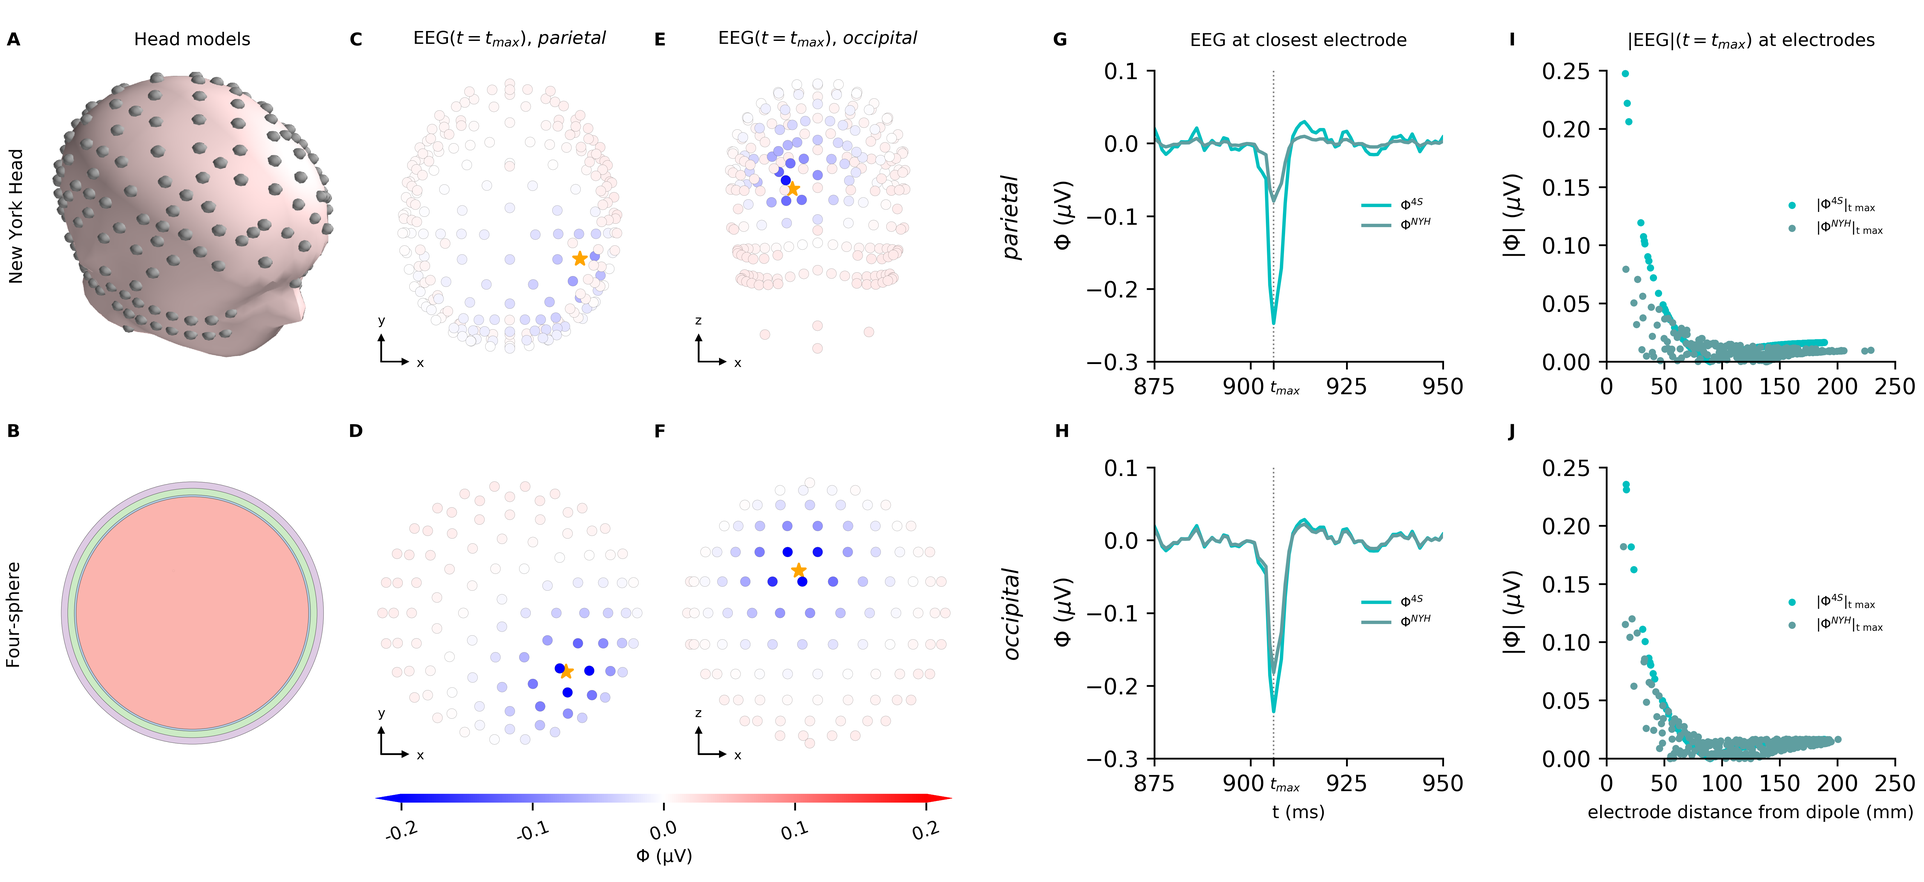
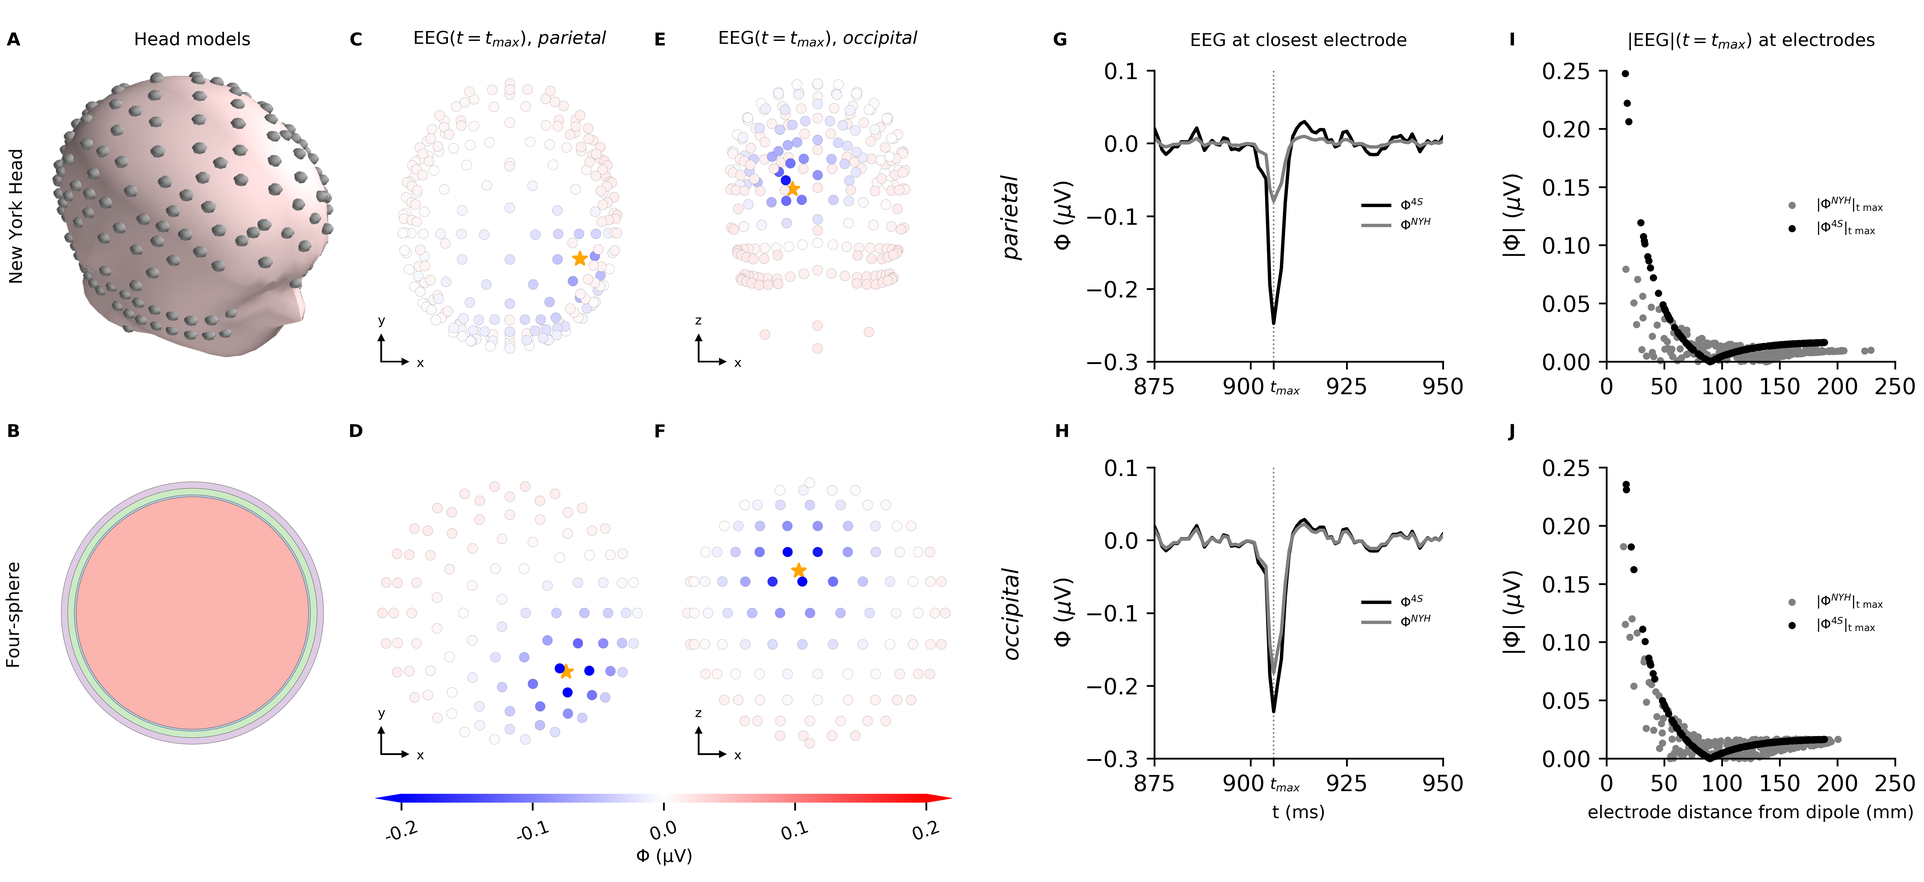
acceptions, fixes and comments to 3.2-3.5

diff --git a/doc/eeg_main.tex b/doc/eeg_main.tex
@@ -497,50 +497,44 @@ This demonstrates that the relative error of the single-dipole approximation is 
 
 \subsection{Compact description of EEG contribution simplifies analysis}\label{subsec:compact}
 %In the previous section we showed that the single-dipole approximation was applicable for calculation of EEG signals from a single synaptic input to a human cortical Layer 2/3 cell model, and we now expand this to three different cell types (Fig.~\ref{fig:eeg_compare_cell_types}\textbf{A}), each receiving a large number of synaptic inputs arriving in waves with specific target regions on the cells (Fig.~\ref{fig:eeg_compare_cell_types}\textbf{B}).
-In the previous section we showed that the single-dipole approximation was applicable for calculation of EEG signals, and in this section we demonstrate that the single-dipole approximation can substantially simplify the analysis of the biophysical origin of EEG signals.
+In the previous section, we showed that the single-dipole approximation was applicable for calculation of EEG signals, and in this section we demonstrate that the single-dipole approximation can substantially simplify the analysis of the biophysical origin of EEG signals.
 
 \subsubsection{Single-dipole approximation simplifies estimate of EEG contribution}
 
 Pyramidal cells have a preferred orientation along the depth axis of cortex (here the $z$-axis), and the direction of the current dipole moment $\mathbf{p}$ can be expected to align with this axis since
-radial symmetry will tend to make the orthogonal components ($p_x$, $p_y$) cancel \citep{HAGEN2018}. 
+radial symmetry will tend to make the orthogonal components ($\text{p}_x$, $\text{p}_y$) cancel \citep{HAGEN2018}. 
 In contrast, interneurons show much less of a preferred orientation, and are therefore not expected to give any meaningful contribution to the EEG signal, except indirectly through input to pyramidal cells \citep{HAGEN2016}.
-We illustrated this by applying the single-dipole approximation to three different cell types (Fig.~\ref{fig:eeg_compare_cell_types}\textbf{A}), each receiving a large number of synaptic inputs arriving in waves with specific target regions on the cells (Fig.~\ref{fig:eeg_compare_cell_types}\textbf{B}). \tvntxt{\sout{The synaptic input weights for all synapses of the same type (excitatory/ inhibitory) in a single wave, summed to 0.01. }}
-%\tvnnote{Kan fjernes herfra, siden det er i figurtekst}
+We illustrated this by applying the single-dipole approximation to three different cell types (Fig.~\ref{fig:eeg_compare_cell_types}\textbf{A}), each receiving a large number of synaptic inputs arriving in waves with specific target regions on the cells (Fig.~\ref{fig:eeg_compare_cell_types}\textbf{B}).
 
 For the previously used human layer-2/3 cell (Fig.~\ref{fig:eeg_compare_cell_types}\textbf{A}, purple; \cite{EYAL2016}),
-receiving a wave of \tvntxt{\sout{100}} excitatory synaptic inputs that were restricted to the uppermost 200~$\si{\um}$ of the cell (time=50~ms; Fig.~\ref{fig:eeg_compare_cell_types}\textbf{B}, purple dots), we observed a negative deviation of $p_z$ (Fig.~\ref{fig:eeg_compare_cell_types}\textbf{C}, purple line). For basal synaptic input (time=100~ms; Fig.~\ref{fig:eeg_compare_cell_types}\textbf{B}, purple line), the polarity of $p_z$ was instead positive, but of slightly lower amplitude than for apical input, as can be expected because the large area of the somatic region will cause strong return currents in the immediate vicinity of the synaptic inputs, and therefore an overall weaker current-dipole moment.
+receiving a wave of excitatory synaptic inputs that were restricted to the uppermost 200~$\si{\um}$ of the cell (time=50~ms; Fig.~\ref{fig:eeg_compare_cell_types}\textbf{B}, purple dots), we observed a negative deviation of $\text{p}_z$ (Fig.~\ref{fig:eeg_compare_cell_types}\textbf{C}, purple line). For basal synaptic input (time=100~ms; Fig.~\ref{fig:eeg_compare_cell_types}\textbf{B}, purple line), the polarity of $\text{p}_z$ was instead positive, but of slightly lower amplitude than for apical input, as can be expected because the large area of the somatic region will cause strong return currents in the immediate vicinity of the synaptic inputs, and therefore an overall weaker current-dipole moment.
 
 
-A uniform distribution of 400 synaptic inputs across the cell membrane with area-weighted probability (time=150~ms; Fig.~\ref{fig:eeg_compare_cell_types}\textbf{B}, purple line), only gave rise to small ripples in $p_z$, due to the substantial cancellation of current dipoles of opposite polarity. It is sometimes assumed that excitatory input is relatively uniformly distributed onto pyramidal cells, while inhibitory input is more directed to the perisomatic region \citep{Mazzoni2015, Telenczuk2019, Skaar2020, Telenczuk2020}. As expected, we found that the combination of the previously described wave of uniformly distributed excitatory synaptic input, combined with perisomatic inhibitory inputs gave rise to a clear negative response in $p_z$ (time=200~ms; Fig.~\ref{fig:eeg_compare_cell_types}\textbf{B}, purple line), which could be part of the explanation why inhibitory synaptic input in some cases have been found to dominate the LFP \citep{HAGEN2016, TELENCZUK2016}.
+A uniform distribution of 400 synaptic inputs across the cell membrane with area-weighted probability (time=150~ms; Fig.~\ref{fig:eeg_compare_cell_types}\textbf{B}, purple line), only gave rise to small ripples in $\text{p}_z$, due to the substantial cancellation of current dipoles of opposite polarity. It is sometimes assumed that excitatory input is relatively uniformly distributed onto pyramidal cells, while inhibitory input is more directed to the perisomatic region \citep{Mazzoni2015, Telenczuk2019, Skaar2020, Telenczuk2020}. As expected, we found that the combination of the previously described wave of uniformly distributed excitatory synaptic input, combined with perisomatic inhibitory inputs gave rise to a clear negative response in $\text{p}_z$ (time=200~ms; Fig.~\ref{fig:eeg_compare_cell_types}\textbf{B}, purple line), which could be part of the explanation why inhibitory synaptic input in some cases have been found to dominate the LFP \citep{HAGEN2016, TELENCZUK2016}.
 
 For a rat cortical layer-5 pyramidal cell model (Fig.~\ref{fig:eeg_compare_cell_types}\textbf{A}, blue; \cite{HAY2011}), the resulting current dipole moment was very similar in shape, but larger in amplitude, which was expected because the longer apical dendrite will tend to give larger current dipole moments (Fig.~\ref{fig:eeg_compare_cell_types}\textbf{C}, blue line).
 
 Lastly, we used a rat cortical layer-5 interneuron model (Fig.~\ref{fig:eeg_compare_cell_types}\textbf{A}, green; \cite{MARKRAM2015}), but since the dendrites of interneurons are not structured into the same distinctive zones as pyramidal cells, the synaptic input caused very small net current dipole moments.
-%\snnote{For the interneuron, the input is actually distributed such that apical means above z = 0, and basal means below z = 0. This does perhaps not make sense biologically.. Would it be better to have uniform distribution for both "apical", "basal" and "uniform"?}
-We calculated the EEG signals with the four-sphere head model, using both the multi-dipole (Fig.~\ref{fig:eeg_compare_cell_types}\textbf{D}, dotted lines) and the single-dipole (Fig.~\ref{fig:eeg_compare_cell_types}\textbf{D}, solid lines) approach. The maximum global error was below 3.5$\%$ for all cells.\tvnnote{Høres litt ut som alle fikk samme feil. Gi for hver celle?}
+
+We calculated the EEG signals with the four-sphere head model, using both the multi-dipole (Fig.~\ref{fig:eeg_compare_cell_types}\textbf{D}, dotted lines) and the single-dipole (Fig.~\ref{fig:eeg_compare_cell_types}\textbf{D}, solid lines) approach. The single-dipole approach gave a maximum global error of  \sntxt{2.2$\%$, 3.5$\%$ and 0.34$\%$ for for the human layer-5 cell, the rat layer-5 cell and the rat interneuron, respectively. \sout{below 3.5$\%$ for all cells}}.\tvnnote{Høres litt ut som alle fikk samme feil. Gi for hver celle?}
+\snnote{ok?}
 %\sout{In all three cases, we found the single-dipole approximation to be in excellently agreement with the multi-dipole approach, demonstrating that}  
 Importantly,
 %\sntxt{The resulting EEG signals modeled with the four-sphere head model is shown in Fig.~\ref{fig:eeg_compare_cell_types}. We applied both the multi-dipole (dotted line) and the single dipole model (solid line).} \snnote{maximum global error is 1.5$\%$ for Segev, 2.7$\%$ for Hay and 49$\%$ for interneuron. Don't know if we should include these numbers. It seems like these maximum errors occur for apical input, while in fig. 2 the largest errors followed basal input..}
 %Note that in all cases, 
-the EEG signal is nearly fully described by the single-dipole $p_z$, that is, a single time-dependent array, which corresponds to a massive simplification in understanding the biophysical origin of the EEG signal, compared to considering the transmembrane currents and position of each cellular compartment. 
+the EEG signal is nearly fully described by the single-dipole $\text{p}_z$, that is, a single time-dependent array, which corresponds to a massive simplification in understanding the biophysical origin of the EEG signal, compared to considering the transmembrane currents and position of each cellular compartment. 
 
-%We found in the previous section that the single-dipole approximation was applicable for calculation of EEG signals, but we have not yet demonstrated its usefulness for modeling and understanding the EEG.
-
-%\tvnnote{Solveig: Could you perhaps run the simulations in Figure 3 with the multi-dipole approach as well, so we can look at the error for the different waves and cells? I'm not sure it needs to be in the figure, but it would be good to give a maximum relative error I think ('relative' with respect to the maximum signal: error / max(abs(sig))). When writing this, it feels like our verification is a bit weak still.
-%Maybe it would make sense to add the multi-dipole EEG as dashed lines in panel D as well?
-%}
-%\snnote{Jepp!}
-%\snnote{still not certain about the second-to-last sentence. How about just going for your striked-out alternative, but skip "excellently"? I think that would be less confusing. Then we could include all the errors in the caption instead?}
 
 \begin{figure}[H]
 	\centering
 	\includegraphics[width=0.8\textwidth]{figure3.png}
 	\caption{\textbf{EEG signals and current dipole moment from three different cell types with various synaptic input}.
-		\textbf{A}: The morphologies of a human L2/3 pyramidal cell (purple; \cite{EYAL2016}), a rat L5 pyramidal cell (blue; \cite{HAY2011}), and a rat L5 interneuron (green; \cite{MARKRAM2015}). All panels use the same colors for data from each cell type.
-		\textbf{B}: Each dot represents an excitatory synaptic input at a specific time (x-axis) at a specific height of the neuron (z-axis, corresponding to panel A) for a specific cell type (color). The crosses mark inhibitory synaptic input. The four input bulks represent 1) 100 apical excitatory synapses, 2) 100 basal excitatory input, 3) 400 homogeneously spread-out excitatory synapses and 4) 400 homogeneously spread-out excitatory synapse and inhibitory basal synapses. The synaptic weights summ to 0.01 for all sets of excitatory/ inhibitory synapses in each wave.
+		\textbf{A}: The morphologies of a human L2/3 pyramidal cell (purple; \cite{EYAL2016}), a rat L5 pyramidal cell (blue; \cite{HAY2011}), and a rat L5 interneuron (green; \cite{MARKRAM2015}). \sntxt{The remaining panels display data connected to each cell type, see cell specific colors.}
+		\textbf{B}: Each dot represents an excitatory synaptic input at a specific time (x-axis) at a specific height of the neuron (z-axis, corresponding to panel A) for a specific cell type (color). The crosses mark inhibitory synaptic input. The four input bulks represent 1) 100 apical excitatory synapses, 2) 100 basal excitatory input, 3) 400 homogeneously spread-out excitatory synapses and 4) 400 homogeneously spread-out excitatory synapse and inhibitory basal synapses. The synaptic weights sum to 0.01 for all sets of excitatory/ inhibitory synapses in each wave. \sntxt{For the interneuron, which doesn't have typical "apical" or "basal" zones, the synapses were spread out all over the morphology for all input types.}
 		\textbf{C}: The x-, y- and z-components of the current dipole moment $\mathbf{p}$ for the three different cell types.
 		\textbf{D}: EEG signals, $\phi$ from the three cell types computed with the four-sphere model.
-		\tvnnote{Nevne hvordan det er gjort for internevronet som ikke har apic og basal?}
+%		\tvnnote{Nevne hvordan det er gjort for internevronet som ikke har apic og basal?}
+%		\snnote{Har prøvd litt forskjellige løsninger her, men fant ut at det greieste var å ikke gjøre forskjell på apical/basal/uniform.}
 	}
 	\label{fig:eeg_compare_cell_types}
 \end{figure}
@@ -653,13 +647,14 @@ Luckily, several such pre-solved complex head models are freely available, and o
 %We show results for the current dipole being positioned in two different brain regions of the NY head model, namely .... In both cases the current dipole moment was oriented along the depth axis of the cortex ... Note that because of the intrinsic complexity of the NY head model, the amplitude of the EEG signal is very different in the two cases, while it was much more similar for the four-sphere head model ...'' Maybe it is sufficient to give the distanced to the closest electrode only in the caption.}
 %\snnote{Good idea!}
 \tvnnote{Resten av denne seksjonen har jeg omstrukturert å skrevet om ganske mye. Hva syntes du?}
-\tvntxt{To illustrate the use of pre-solved complex head-models, we inserted the current dipole moment obtained in Section~\ref{subsec:populations} into the New York Head model (Fig.~\ref{fig:compare_head_models}\textbf{A}), at two different manually chosen positions, in the parietal and occipital lobe respectively (Fig.~\ref{fig:compare_head_models}\textbf{C, E}, stars).
-	In both cases the current dipole moment was oriented along the normal vector of the brain surface, and the EEG signal calculated.
-	We then found positions in the four-sphere head model (Fig.~\ref{fig:compare_head_models}\textbf{B}), with the same brain surface normal vector, and comparable distances to closest EEG electrode (Fig.~\ref{fig:compare_head_models}\textbf{D, F}, stars), and computed the EEG signal from the same current dipole moment. The computed EEG signals from the two head models were in this case relatively comparable in both spatial shape and amplitude (Fig.~\ref{fig:compare_head_models}\textbf{C-F}). The two head models also generated EEG signals of the same temporal shape, as expected, but while the four-sphere head model gave very similar EEG amplitudes for the two different dipole locations, the EEG amplitudes from the complex head model was much more variable, even for similar distances to the closest electrode (Fig.~\ref{fig:compare_head_models}{\bf G}, {\bf H}).
-}
+\snnote{Supert!}
+To illustrate the use of pre-solved complex head-models, we inserted the current dipole moment obtained in Section~\ref{subsec:populations} into the New York Head model (Fig.~\ref{fig:compare_head_models}\textbf{A}), at two \sntxt{\sout{different}} manually chosen positions\sntxt{: one in the parietal lobe, and one in the occipital lobe, see stars in Fig.~\ref{fig:compare_head_models}\textbf{C, E}, respectively.\sout{, in the parietal and occipital lobe respectively (Fig.~\ref{fig:compare_head_models}\textbf{C, E}, stars).}}
+	In both cases, the current dipole moment was oriented along the normal vector of the brain surface, and the EEG signal \sntxt{was} calculated.
+	We then found \sntxt{dipole} positions in the four-sphere head model (Fig.~\ref{fig:compare_head_models}\textbf{B}) with the same brain surface normal vector\sntxt{s} and comparable distances to closest EEG electrode (Fig.~\ref{fig:compare_head_models}\textbf{D, F}, stars), and computed the EEG signal from the same current dipole moment. The computed EEG signals from the two head models were in this case relatively comparable in both spatial shape and amplitude (Fig.~\ref{fig:compare_head_models}\textbf{C-F}). The two head models also generated EEG signals of the same temporal shape, as expected, but while the four-sphere head model gave very similar EEG amplitudes for the two different dipole locations, the EEG amplitudes from the complex head model was much more variable, even for similar distances to the closest electrode (Fig.~\ref{fig:compare_head_models}{\bf G}, {\bf H}).
+
 \tvnnote{ikke sant? Har du avstandene?}
-\tvntxt{The higher variability of the complex head model was also apparent in the decay of the maximum EEG amplitude with distance, which was perfectly smooth, exponential-like \citep{NUNEZ2006}, and very similar for the two locations in the four-sphere model, but very variable for the complex head model, although with the same general shape (Fig.~\ref{fig:compare_head_models}{\bf I}, {\bf J}).
-}
+\snnote{Ja! Parietal: 16.13mm i 4S og 16.76 i NYH.  Occipital: 16.90 mm i 4S og 14.64mm i NYH. Det som kanskje er litt dumt, er at der EEG-amplitudene for de to modellene ser mest sammenliknbare ut, dvs for dipol i occipital lobe er det 4S som har størst amplitude og lengst avstand fra dipol til nærmeste elektrode. Hvis avstanden hadde vært mer lik som i NYH ville altså ville vi hatt større forskjeller i amplitude for de to modellene.. Går det greit synes du, eller skal jeg gjøre et forsøk til på å flytte elektrodene i 4S-modellen, sånn at nærmeste elektrode kommer nærmere?}
+The higher variability of the complex head model was also apparent in the decay of the maximum EEG amplitude with distance, which was perfectly smooth, exponential-like \citep{NUNEZ2006}, and very similar for the two locations in the four-sphere model, but very variable for the complex head model, although with the same general shape (Fig.~\ref{fig:compare_head_models}{\bf I}, {\bf J}).
 
 
 %To illustrate the use of pre-solved complex head-models, we computed and compared EEG signals resulting from the current dipole moment obtained in Section~\ref{subsec:populations} inserted into the New York Head model (Fig.~\ref{fig:compare_head_models}\textbf{A}) and the four-sphere head model (Fig.~\ref{fig:compare_head_models}\textbf{B}). We show results for the current dipole being manually positioned in two different brain regions of the NYH model, namely the parietal lobe and the occipital lobe.
@@ -668,7 +663,7 @@ Luckily, several such pre-solved complex head models are freely available, and o
 
 %\tvntxt{\sout{When looking at the EEG trace measured by the electrode closest to the dipole, we can see that t}T}he two \tvntxt{head} models generate \tvntxt{EEG} signals of the same shape, as expected (Fig.~\ref{fig:compare_head_models}{\bf G}, {\bf H}). Plotting the EEG signals at time point $t_{max}$ for all electrodes as a function of distance from current dipole moment to electrode, showed that the EEG signal decays exponentially with distance \tvnnote{Bortsett fra at den tilsynelatende begynner såvidt å øke igjen ganske fort (etter at den har krysset null?). Har du sjekket at det er exponentially} \citep{NUNEZ2006} (Fig.~\ref{fig:compare_head_models}{\bf I}, {\bf J}). Because of the intrinsic complexity of the NYH model, the amplitude of the EEG signal is very different for the two dipole positions. When applying the four-sphere model, on the other hand, the different dipole positions resulted in much more similar EEG amplitudes.
 
-Note that \tvntxt{despite the complexity} the NYH model is substantially faster than our implementation of the four-sphere model. In order to simulate the EEGs from a dipole moment vector containing 1201 timesteps, the NYH model execution times were $<$0.4s, while the four-sphere model needed $<$1.5s.
+Note that despite the complexity the NYH model is substantially faster than our implementation of the four-sphere model. In order to simulate the EEGs from a dipole moment vector containing 1201 timesteps, the NYH model execution times were $<$0.4s, while the four-sphere model needed $<$1.5s.
 
 
 
@@ -698,15 +693,16 @@ Note that \tvntxt{despite the complexity} the NYH model is substantially faster 
 	\caption{\textbf{EEG signals from neuron population can be modeled with the four-sphere model and the New York Head}. EEG signals from population dipole resulting from waves of synaptic input to the cortical microcircuit model from \cite{POTJANS2014}. Population dipole was placed in two different locations: parietal lobe (C,D,G,I) and occipital lobe (E,F,H,J).
 		{\bf A}: The New York Head model.
 		{\bf B}: The four-sphere model consisting of four concentrical shells: brain tissue, CSF, skull and scalp. 
-		{\bf C, D}: EEG signals ($\phi$) on scalp surface electrodes seen from above, showing timepoint of the strongest current dipole moment $|{\bf p}|$ of the population simulation. Dipole is placed in the parietal lobe and location is marked by orange star, having the following coordinates in the NYH model: (55, -49, 57)mm. EEG signals were computed with the New York Head model (C) and the four-sphere head model (D).
-		{\bf E,F}: Equivalent to panel C,D however, dipole is placed in occipital lobe, and electrodes are seen from the back of the head. Dipole coordinates for NYH model: (-24.3, -105.4, -1.2)mm.
-		{\bf G,H}: EEG trace computed with the four-sphere model and the New York Head model on closest scalp surface electrode: i.e. the electrode with the shortest distance to the current dipole moment location. G shows results for dipole placed in parietal lobe, while H shows results for dipole in occipital lobe.
+		{\bf C, D}: EEG signals ($\phi$) on scalp surface electrodes, seen from above, showing timepoint of the strongest current dipole moment $|{\bf p}|$ of the population simulation. Dipole is placed in the parietal lobe and location is marked by orange star, having the following coordinates in the NYH model: (55, -49, 57)mm. EEG signals were computed with the New York Head model (C) and the four-sphere head model (D).
+		{\bf E,F}: Equivalent to panel C,D, however, dipole is placed in occipital lobe, and electrodes are seen from the back of the head. Dipole coordinates for NYH model: (-24.3, -105.4, -1.2)mm.
+		{\bf G,H}: EEG trace computed with the four-sphere model \sntxt{(black)} and the New York Head model \sntxt{(gray)} on closest scalp surface electrode: i.e. the electrode with the shortest distance to the current dipole moment location. G shows results for dipole placed in parietal lobe, while H shows results for dipole in occipital lobe.
 		{\bf I}: Absolute value of EEG signals from panel C, D generated by dipole in parietal lobe, plotted as function of distance from dipole to measurement electrode.
 		{\bf H}: Equivalent to panel I, however, EEG signals from panel E, F generated by dipole in occipital lobe.
 		%	\snnote{The layout of this figure was meant to be pedagogical, as the rows, columns show the same model/ dipole location, but it's probably not compact enough..}
 		%	\snnote{The same number of electrodes (224) in the four-sphere model for both dipole locations. Can try to optimize this, to get minimal distance between dipole and closest electrode.}
 		%	\snnote{compute angle between EEG electrode and current dipole moment/ current dipole position vector. This should also affect the amplitude..}
-		\tvnnote{Kanskje egentlig litt like farger i G-J? Hva med svart og grå?}	
+%		\tvnnote{Kanskje egentlig litt like farger i G-J? Hva med svart og grå?}
+%		\snnote{God idé!}	
 	}
 	\label{fig:compare_head_models}
 \end{figure}
